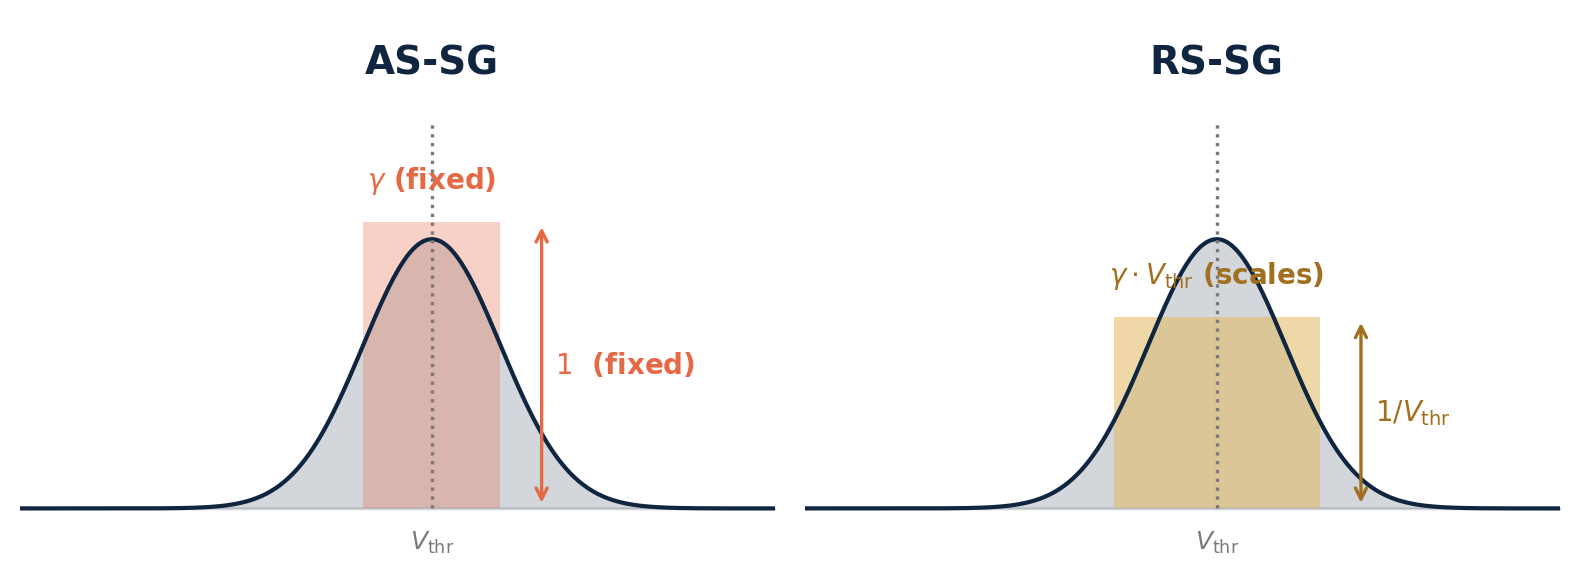
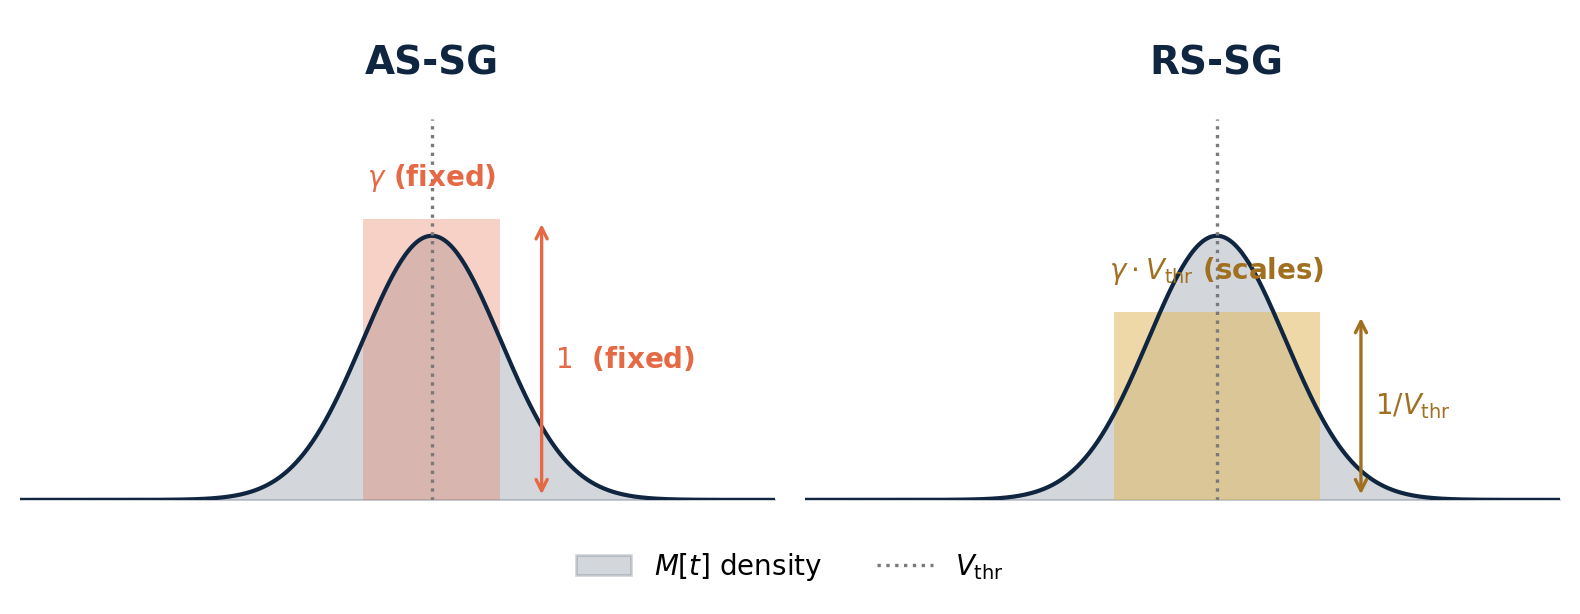
S11 sg_windows: bring legend back, place it well below the chart
User wanted the M[t] density / V_thr legend back, just lower so it
doesn't crowd the rectangles.

  - subplots_adjust(bottom=0.15) reserves a strip below the axes
  - fig.legend at bbox_to_anchor=(0.5, -0.03), loc='lower center'
  - bbox_inches='tight' on save keeps the legend in the exported PNG
  - dropped the inline 'V_thr' axis labels since the legend now
    explains the dotted line

The V_thr dotted line still stops at CHART_TOP=1.15 so it does not
pierce the AS-SG / RS-SG titles at y=1.32.

https://claude.ai/code/session_01KsoZVcMJ4zaC3YipGd4nvb

diff --git a/gen_ppt_visuals.py b/gen_ppt_visuals.py
@@ -73,12 +73,12 @@ TITLE_Y   = 1.32   # subplot title baseline
 ax = axes[0]
 mu = 1.5; gamma = 1.0
 V_thr = mu
-ax.fill_between(xs, density(xs, mu), color=NAVY, alpha=0.18)
+density_handle = ax.fill_between(xs, density(xs, mu), color=NAVY, alpha=0.18,
+                                  label="$M[t]$ density")
 ax.plot(xs, density(xs, mu), color=NAVY, lw=1.5)
 # V_thr dotted line — drawn only inside the chart area (does NOT cross the title)
-ax.plot([V_thr, V_thr], [0, CHART_TOP], color=GRAY, ls=":", lw=1.2)
-ax.text(V_thr, -0.06, "$V_{\\rm thr}$", ha="center", va="top",
-        fontsize=9, color=GRAY)
+vthr_handle, = ax.plot([V_thr, V_thr], [0, CHART_TOP], color=GRAY, ls=":", lw=1.2,
+                       label="$V_{\\rm thr}$")
 as_h = 0.85
 rect = patches.Rectangle((V_thr - gamma/2, 0), gamma, as_h,
                           linewidth=0, color=CORAL, alpha=0.30)
@@ -95,7 +95,7 @@ ax.text(V_thr + gamma/2 + 0.40, as_h/2, "$1$  (fixed)",
 # Title centered above V_thr (clear of the chart area, no V_thr line passing through)
 ax.text(V_thr, TITLE_Y, "AS-SG", ha="center", va="center",
         fontsize=14, color=NAVY, fontweight="bold")
-ax.set_xlim(-1.5, 4); ax.set_ylim(-0.15, 1.45)
+ax.set_xlim(-1.5, 4); ax.set_ylim(0, 1.45)
 ax.set_xticks([]); ax.set_yticks([])
 ax.spines[:].set_visible(False)
 
@@ -107,8 +107,6 @@ ax.fill_between(xs, density(xs, mu), color=NAVY, alpha=0.18)
 ax.plot(xs, density(xs, mu), color=NAVY, lw=1.5)
 # V_thr dotted line — chart area only
 ax.plot([V_thr, V_thr], [0, CHART_TOP], color=GRAY, ls=":", lw=1.2)
-ax.text(V_thr, -0.06, "$V_{\\rm thr}$", ha="center", va="top",
-        fontsize=9, color=GRAY)
 window_w = gamma * V_thr
 rs_h = as_h / V_thr  # height inversely scales with V_thr
 rect = patches.Rectangle((V_thr - window_w/2, 0), window_w, rs_h,
@@ -126,11 +124,17 @@ ax.text(V_thr + window_w/2 + 0.40, rs_h/2, "$1/V_{\\rm thr}$",
 # Title centered above V_thr
 ax.text(V_thr, TITLE_Y, "RS-SG", ha="center", va="center",
         fontsize=14, color=NAVY, fontweight="bold")
-ax.set_xlim(-1.5, 4); ax.set_ylim(-0.15, 1.45)
+ax.set_xlim(-1.5, 4); ax.set_ylim(0, 1.45)
 ax.set_xticks([]); ax.set_yticks([])
 ax.spines[:].set_visible(False)
 
 plt.tight_layout()
+# Shared legend below the chart (well clear of the rectangles)
+plt.subplots_adjust(bottom=0.15)
+fig.legend(handles=[density_handle, vthr_handle],
+           loc="lower center", ncol=2, fontsize=10, frameon=False,
+           bbox_to_anchor=(0.5, -0.03))
+
 plt.savefig("ppt_assets/gen/sg_windows.png", bbox_inches="tight",
             facecolor="white")
 plt.close()